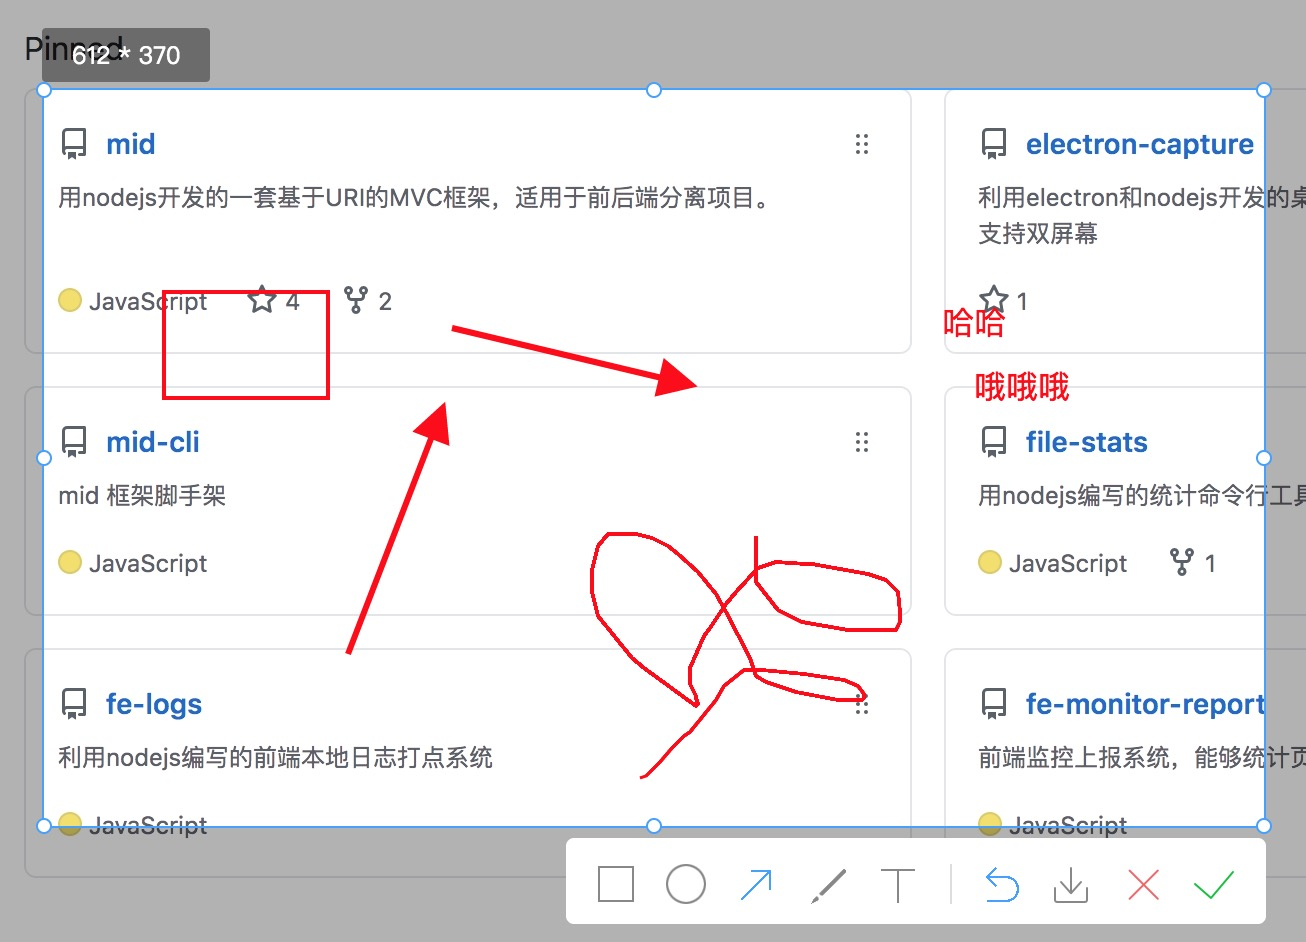
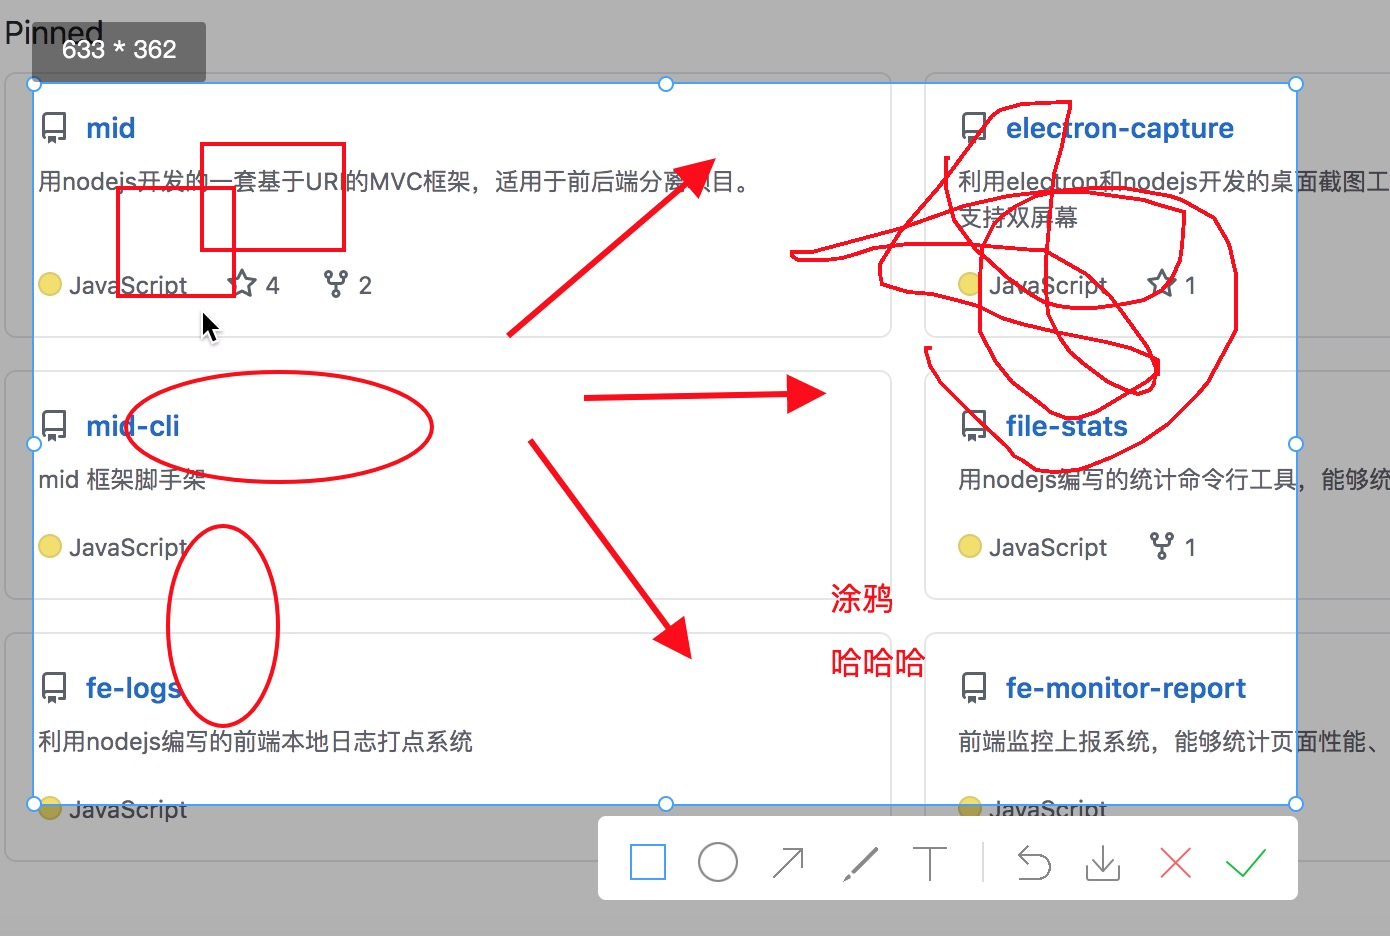
up

diff --git a/renderer/capture/edit.js b/renderer/capture/edit.js
@@ -80,7 +80,7 @@ const saveFocusText = () => {
 	// 考虑文本换行的情况
 	let arr = textConfig.dom.innerText ? textConfig.dom.innerText.split('\n') : [];
 	arr.forEach((item, index) => {
-		canvasDomCtx.fillText(item, textConfig.originX, textConfig.originY + index * textConfig.size * 2);
+		canvasDomCtx.fillText(item, textConfig.originX, textConfig.originY + index * textConfig.size * ratio);
 	});
 
 	document.body.removeChild(textConfig.dom);
@@ -99,6 +99,10 @@ const removeAllListener = () => {
 	pointBox.removeEventListener('mousedown', rectMousedownFun);
 	pointBox.removeEventListener('mousemove', rectMousemoveFun);
 	pointBox.removeEventListener('mouseup', rectMouseupFun);
+
+	pointBox.removeEventListener('mousedown', circleMousedownFun);
+	pointBox.removeEventListener('mousemove', circleMousemoveFun);
+	pointBox.removeEventListener('mouseup', circleMouseupFun);
 
 	pointBox.removeEventListener('mousedown', arrowMousedownFun);
 	pointBox.removeEventListener('mousemove', arrowMousemoveFun);
@@ -126,6 +130,7 @@ const removeActiveClass = () => {
 	graffiti.classList.remove('graffiti-active');
 	text.classList.remove('text-active');
 }
+
 
 
 // 矩形
@@ -223,14 +228,80 @@ rect.addEventListener('click', e => {
 
 
 
+
+// 椭圆
+let circleConfig = {
+	color: '#f00',
+	width: 2,
+	canDrag: false,
+	originX: 0,
+	originY: 0
+}
+// circleMousedownFun
+const circleMousedownFun = e => {
+	e.stopPropagation();
+	e.preventDefault();
+
+	circleConfig.originX = e.clientX;
+	circleConfig.originY = e.clientY;
+
+	saveDrawingSurface();
+	circleConfig.canDrag = true;
+}
+// circleMousemoveFun
+const circleMousemoveFun = e => {
+	e.stopPropagation();
+	e.preventDefault();
+
+	if (circleConfig.canDrag) {
+		restoreDrawingSurface();
+
+		let nowX = e.clientX;
+		let nowY = e.clientY;
+		let radiusX = Math.abs((nowX - circleConfig.originX) / 2);
+		let radiusY = Math.abs((nowY - circleConfig.originY) / 2);
+		let x = radiusX + circleConfig.originX - getCanvasWH().x;
+		let y = radiusY + circleConfig.originY - getCanvasWH().y;
+
+		canvasDomCtx.beginPath();
+		canvasDomCtx.ellipse(x * ratio, y * ratio, radiusX * ratio, radiusY * ratio, 0 * Math.PI / 180, 0, 2 * Math.PI);
+		canvasDomCtx.stroke();
+	}
+}
+// circleMouseupFun
+const circleMouseupFun = e => {
+	e.stopPropagation();
+	e.preventDefault();
+	circleConfig.canDrag = false;
+	saveCanvas();
+}
+// 椭圆
+const circle = $('circle');
+circle.addEventListener('click', e => {
+	removeAllListener();
+	removeActiveClass();
+
+	pointBox.style.cursor = 'crosshair';
+	circle.classList.add('circle-active');
+	canvasDomCtx.strokeStyle = circleConfig.color;
+	canvasDomCtx.lineWidth = circleConfig.width * ratio;
+
+	pointBox.addEventListener('mousedown', circleMousedownFun, false);
+	pointBox.addEventListener('mousemove', circleMousemoveFun, false);
+	pointBox.addEventListener('mouseup', circleMouseupFun, false);
+}, false);
+
+
+
+
 // 箭头
 let arrowConfig = {
 	// 颜色
 	color: '#f00',
 	// 线粗细
-	width: 6,
+	width: 3,
 	// 箭头大小
-	size: 30,
+	size: 10,
 	canDrag: false,
 	originX: 0,
 	originY: 0
@@ -283,7 +354,7 @@ const arrowMousemoveFun = e => {
 		let lineangle = Math.atan2(lineY - moveY, lineX - moveX);
 		let angle = lineangle;
 		let x1, y1, x2, y2, x3, y3;
-		let arrowSize = arrowConfig.size;
+		let arrowSize = arrowConfig.size * ratio;
 		// 让箭头更尖
 		let arrowSizeHalf = arrowSize / 2;
 		// x1 = lineX + arrowSize * Math.sin(angle);
@@ -324,7 +395,7 @@ arrow.addEventListener('click', e => {
 
 	arrow.classList.add('arrow-active');
 	canvasDomCtx.strokeStyle = arrowConfig.color;
-	canvasDomCtx.lineWidth = arrowConfig.width;
+	canvasDomCtx.lineWidth = arrowConfig.width * ratio;
 	canvasDomCtx.fillStyle = arrowConfig.color;
 
 	pointBox.addEventListener('mousedown', arrowMousedownFun, false);
@@ -334,12 +405,13 @@ arrow.addEventListener('click', e => {
 
 
 
+
 // 涂鸦
 let graffitiConfig = {
 	// 颜色
 	color: '#f00',
 	// 线粗细
-	width: 3,
+	width: 1,
 	canDrag: false,
 }
 // graffitiMousedownFun
@@ -377,12 +449,13 @@ graffiti.addEventListener('click', e => {
 
 	graffiti.classList.add('graffiti-active');
 	canvasDomCtx.strokeStyle = graffitiConfig.color;
-	canvasDomCtx.lineWidth = graffitiConfig.width;
+	canvasDomCtx.lineWidth = graffitiConfig.width * ratio;
 
 	pointBox.addEventListener('mousedown', graffitiMousedownFun, false);
 	pointBox.addEventListener('mousemove', graffitiMousemoveFun, false);
 	pointBox.addEventListener('mouseup', graffitiMouseupFun, false);
 }, false);
+
 
 
 

diff --git a/renderer/capture/render.js b/renderer/capture/render.js
@@ -25,10 +25,10 @@ global.historyArr = [];
 // retina显示屏和普通显示屏
 const ratio = window.devicePixelRatio || 1;
 
-// 因为toolbar、canvasSize的宽度高度一般不会变，所以这里写死，而不是通过JS计算，提高性能
-const toolbarWidth = 170;
-const toolbarHeight = 42;
-const canvasSizeHeight = 30;
+// toolbar的宽高、canvasSize的宽度
+const toolbarWidth = parseFloat(window.getComputedStyle(toolbar, null).minWidth);
+const toolbarHeight = parseFloat(window.getComputedStyle(toolbar, null).height);
+const canvasSizeHeight = parseFloat(window.getComputedStyle(canvasSize, null).height);
 
 // drag
 let canDrag = false;

diff --git a/renderer/capture/index.css b/renderer/capture/index.css
@@ -131,6 +131,7 @@ html, body {
     color: #fff;
     font-size: 12px;
     z-index: 90;
+    height: 30px;
 }
 
 /*toolbar*/
@@ -144,6 +145,7 @@ html, body {
     border-radius: 4px;
     -webkit-border-radius: 4px;
     min-width: 350px;
+    height: 42px;
     display: none;
 }
 
